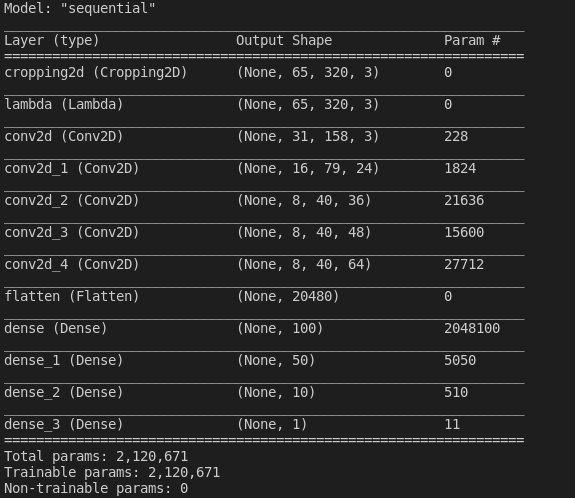
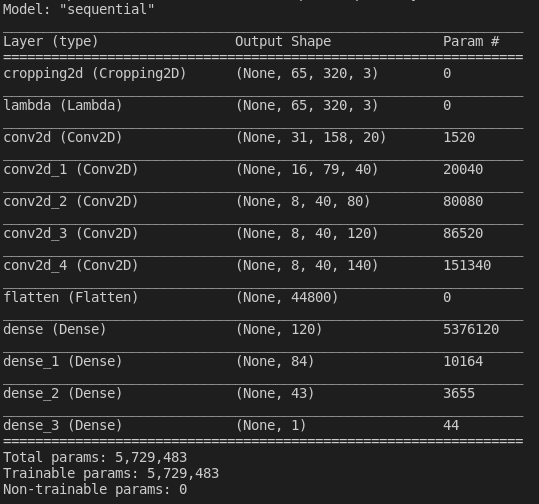
new model_summary.png, more filters in conv2d

diff --git a/model.py b/model.py
@@ -89,7 +89,7 @@ model.fit_generator(train_generator, steps_per_epoch =ceil(len(train_samples*3)/
                     validation_data = validation_generator, \
                     validation_steps = ceil(len(validation_samples*3)/batch_size),
                     epochs = 5, verbose = 1)
-model.save('model_3.h5')
+model.save('model.h5')
 model.summary()
 exit()
 
